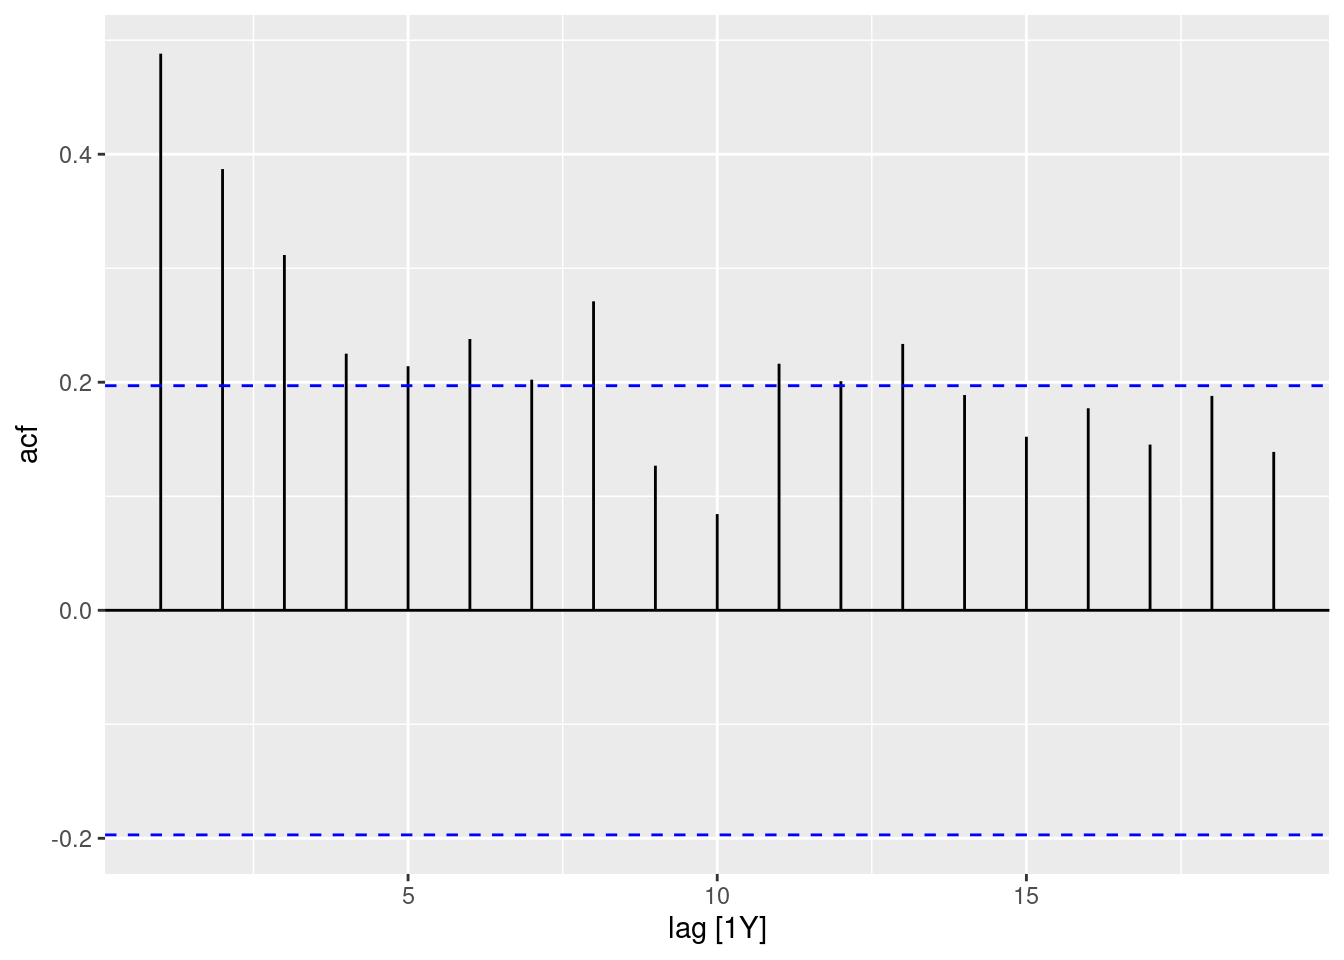
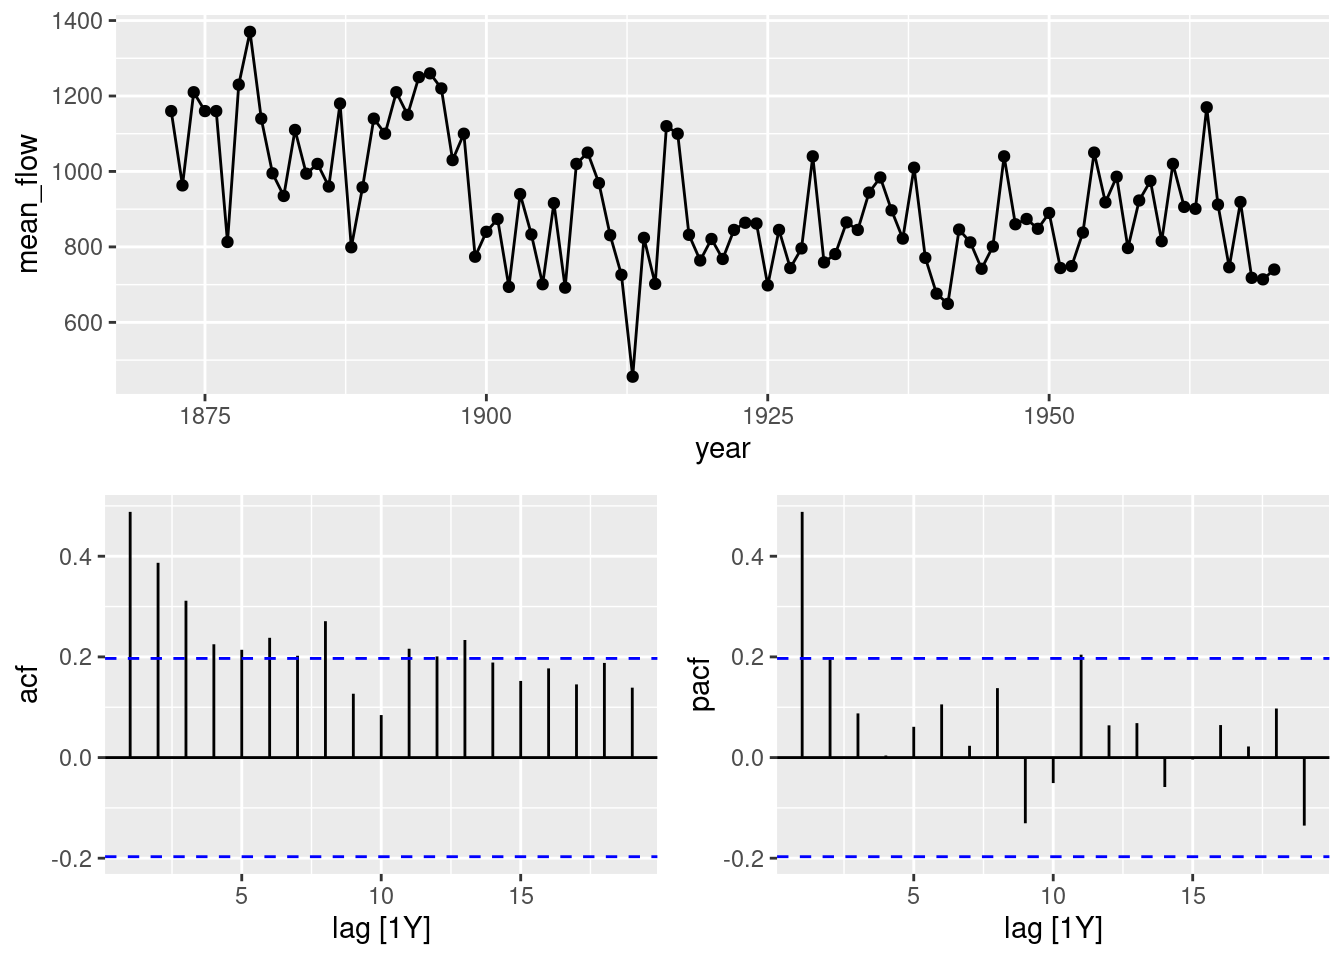
Built site for gh-pages

diff --git a/ch04_arma_estimation.html b/ch04_arma_estimation.html
@@ -571,31 +571,16 @@ The following objects are masked from 'package:base':
 </section>
 <section id="ex-4.2-model-identification" class="level3" data-number="4.2.2">
 <h3 data-number="4.2.2" class="anchored" data-anchor-id="ex-4.2-model-identification"><span class="header-section-number">4.2.2</span> Ex 4.2: Model identification</h3>
-<section id="acf-1" class="level4" data-number="4.2.2.1">
-<h4 data-number="4.2.2.1" class="anchored" data-anchor-id="acf-1"><span class="header-section-number">4.2.2.1</span> ACF</h4>
+<section id="acf-and-pacf" class="level4" data-number="4.2.2.1">
+<h4 data-number="4.2.2.1" class="anchored" data-anchor-id="acf-and-pacf"><span class="header-section-number">4.2.2.1</span> ACF and PACF</h4>
+<p>Use <code>gg_tsdisplay()</code> from <code>{feasts}</code> package, with <code>plot_type = "partial"</code> argument to plot both ACF and PACF along with the time series plot.</p>
 <div class="cell">
 <div class="sourceCode cell-code" id="cb86"><pre class="sourceCode r code-with-copy"><code class="sourceCode r"><span id="cb86-1"><a href="#cb86-1" aria-hidden="true" tabindex="-1"></a>nile_flow <span class="sc">|&gt;</span> </span>
-<span id="cb86-2"><a href="#cb86-2" aria-hidden="true" tabindex="-1"></a>  <span class="fu">ACF</span>(mean_flow) <span class="sc">|&gt;</span> </span>
-<span id="cb86-3"><a href="#cb86-3" aria-hidden="true" tabindex="-1"></a>  <span class="fu">autoplot</span>()</span></code><button title="Copy to Clipboard" class="code-copy-button"><i class="bi"></i></button></pre></div>
+<span id="cb86-2"><a href="#cb86-2" aria-hidden="true" tabindex="-1"></a>  <span class="fu">gg_tsdisplay</span>(mean_flow, <span class="at">plot_type =</span> <span class="st">"partial"</span>)</span></code><button title="Copy to Clipboard" class="code-copy-button"><i class="bi"></i></button></pre></div>
 <div class="cell-output-display">
 <div>
 <figure class="figure">
 <p><img src="ch04_arma_estimation_files/figure-html/unnamed-chunk-7-1.png" class="img-fluid figure-img" width="672"></p>
-</figure>
-</div>
-</div>
-</div>
-</section>
-<section id="pacf-1" class="level4" data-number="4.2.2.2">
-<h4 data-number="4.2.2.2" class="anchored" data-anchor-id="pacf-1"><span class="header-section-number">4.2.2.2</span> PACF</h4>
-<div class="cell">
-<div class="sourceCode cell-code" id="cb87"><pre class="sourceCode r code-with-copy"><code class="sourceCode r"><span id="cb87-1"><a href="#cb87-1" aria-hidden="true" tabindex="-1"></a>nile_flow <span class="sc">|&gt;</span> </span>
-<span id="cb87-2"><a href="#cb87-2" aria-hidden="true" tabindex="-1"></a>  <span class="fu">PACF</span>(mean_flow) <span class="sc">|&gt;</span> </span>
-<span id="cb87-3"><a href="#cb87-3" aria-hidden="true" tabindex="-1"></a>  <span class="fu">autoplot</span>()</span></code><button title="Copy to Clipboard" class="code-copy-button"><i class="bi"></i></button></pre></div>
-<div class="cell-output-display">
-<div>
-<figure class="figure">
-<p><img src="ch04_arma_estimation_files/figure-html/unnamed-chunk-8-1.png" class="img-fluid figure-img" width="672"></p>
 </figure>
 </div>
 </div>
@@ -606,11 +591,11 @@ The following objects are masked from 'package:base':
 <h3 data-number="4.2.3" class="anchored" data-anchor-id="ex-4.7-model-estimation"><span class="header-section-number">4.2.3</span> Ex 4.7: Model estimation</h3>
 <p>Use <code>AR()</code> from <code>{fable}</code> package. In formula, use <code>order(2)</code> set the order of auto-regressive term to be 2.</p>
 <div class="cell">
-<div class="sourceCode cell-code" id="cb88"><pre class="sourceCode r code-with-copy"><code class="sourceCode r"><span id="cb88-1"><a href="#cb88-1" aria-hidden="true" tabindex="-1"></a>ar_fit <span class="ot">&lt;-</span> </span>
-<span id="cb88-2"><a href="#cb88-2" aria-hidden="true" tabindex="-1"></a>  nile_flow <span class="sc">|&gt;</span> </span>
-<span id="cb88-3"><a href="#cb88-3" aria-hidden="true" tabindex="-1"></a>  <span class="fu">model</span>(<span class="at">AR =</span> <span class="fu">AR</span>(mean_flow <span class="sc">~</span> <span class="fu">order</span>(<span class="dv">2</span>)))</span>
-<span id="cb88-4"><a href="#cb88-4" aria-hidden="true" tabindex="-1"></a></span>
-<span id="cb88-5"><a href="#cb88-5" aria-hidden="true" tabindex="-1"></a>ar_fit</span></code><button title="Copy to Clipboard" class="code-copy-button"><i class="bi"></i></button></pre></div>
+<div class="sourceCode cell-code" id="cb87"><pre class="sourceCode r code-with-copy"><code class="sourceCode r"><span id="cb87-1"><a href="#cb87-1" aria-hidden="true" tabindex="-1"></a>ar_fit <span class="ot">&lt;-</span> </span>
+<span id="cb87-2"><a href="#cb87-2" aria-hidden="true" tabindex="-1"></a>  nile_flow <span class="sc">|&gt;</span> </span>
+<span id="cb87-3"><a href="#cb87-3" aria-hidden="true" tabindex="-1"></a>  <span class="fu">model</span>(<span class="at">AR =</span> <span class="fu">AR</span>(mean_flow <span class="sc">~</span> <span class="fu">order</span>(<span class="dv">2</span>)))</span>
+<span id="cb87-4"><a href="#cb87-4" aria-hidden="true" tabindex="-1"></a></span>
+<span id="cb87-5"><a href="#cb87-5" aria-hidden="true" tabindex="-1"></a>ar_fit</span></code><button title="Copy to Clipboard" class="code-copy-button"><i class="bi"></i></button></pre></div>
 <div class="cell-output cell-output-stdout">
 <pre><code># A mable: 1 x 1
                AR
@@ -633,7 +618,7 @@ Note
 </div>
 <p>See the estimated model.</p>
 <div class="cell">
-<div class="sourceCode cell-code" id="cb90"><pre class="sourceCode r code-with-copy"><code class="sourceCode r"><span id="cb90-1"><a href="#cb90-1" aria-hidden="true" tabindex="-1"></a><span class="fu">report</span>(ar_fit)</span></code><button title="Copy to Clipboard" class="code-copy-button"><i class="bi"></i></button></pre></div>
+<div class="sourceCode cell-code" id="cb89"><pre class="sourceCode r code-with-copy"><code class="sourceCode r"><span id="cb89-1"><a href="#cb89-1" aria-hidden="true" tabindex="-1"></a><span class="fu">report</span>(ar_fit)</span></code><button title="Copy to Clipboard" class="code-copy-button"><i class="bi"></i></button></pre></div>
 <div class="cell-output cell-output-stdout">
 <pre><code>Series: mean_flow 
 Model: AR(2) w/ mean 
@@ -648,7 +633,7 @@ AIC = -27.53    AICc = -27.28   BIC = -19.75</code></pre>
 </div>
 <p>See more detailed statistics of the regression coefficients.</p>
 <div class="cell">
-<div class="sourceCode cell-code" id="cb92"><pre class="sourceCode r code-with-copy"><code class="sourceCode r"><span id="cb92-1"><a href="#cb92-1" aria-hidden="true" tabindex="-1"></a><span class="fu">tidy</span>(ar_fit)</span></code><button title="Copy to Clipboard" class="code-copy-button"><i class="bi"></i></button></pre></div>
+<div class="sourceCode cell-code" id="cb91"><pre class="sourceCode r code-with-copy"><code class="sourceCode r"><span id="cb91-1"><a href="#cb91-1" aria-hidden="true" tabindex="-1"></a><span class="fu">tidy</span>(ar_fit)</span></code><button title="Copy to Clipboard" class="code-copy-button"><i class="bi"></i></button></pre></div>
 <div class="cell-output cell-output-stdout">
 <pre><code># A tibble: 3 × 6
   .model term     estimate std.error statistic  p.value
@@ -660,7 +645,7 @@ AIC = -27.53    AICc = -27.28   BIC = -19.75</code></pre>
 </div>
 <p>See model-level statistics.</p>
 <div class="cell">
-<div class="sourceCode cell-code" id="cb94"><pre class="sourceCode r code-with-copy"><code class="sourceCode r"><span id="cb94-1"><a href="#cb94-1" aria-hidden="true" tabindex="-1"></a><span class="fu">glance</span>(ar_fit)</span></code><button title="Copy to Clipboard" class="code-copy-button"><i class="bi"></i></button></pre></div>
+<div class="sourceCode cell-code" id="cb93"><pre class="sourceCode r code-with-copy"><code class="sourceCode r"><span id="cb93-1"><a href="#cb93-1" aria-hidden="true" tabindex="-1"></a><span class="fu">glance</span>(ar_fit)</span></code><button title="Copy to Clipboard" class="code-copy-button"><i class="bi"></i></button></pre></div>
 <div class="cell-output cell-output-stdout">
 <pre><code># A tibble: 1 × 6
   .model sigma2   AIC  AICc   BIC   dof
@@ -671,15 +656,40 @@ AIC = -27.53    AICc = -27.28   BIC = -19.75</code></pre>
 </section>
 <section id="ex-4.8-residual-diagnostics" class="level3" data-number="4.2.4">
 <h3 data-number="4.2.4" class="anchored" data-anchor-id="ex-4.8-residual-diagnostics"><span class="header-section-number">4.2.4</span> Ex 4.8: Residual diagnostics</h3>
+<p>Visualize in-sample residuals. Use <code>gg_tsresiduals()</code> from <code>{feasts}</code> package.</p>
 <div class="cell">
-<div class="sourceCode cell-code" id="cb96"><pre class="sourceCode r code-with-copy"><code class="sourceCode r"><span id="cb96-1"><a href="#cb96-1" aria-hidden="true" tabindex="-1"></a>ar_fit <span class="sc">|&gt;</span> </span>
-<span id="cb96-2"><a href="#cb96-2" aria-hidden="true" tabindex="-1"></a>  <span class="fu">augment</span>() <span class="sc">|&gt;</span> </span>
-<span id="cb96-3"><a href="#cb96-3" aria-hidden="true" tabindex="-1"></a>  <span class="fu">features</span>(.innov, ljung_box, <span class="at">lag =</span> <span class="dv">12</span>)</span></code><button title="Copy to Clipboard" class="code-copy-button"><i class="bi"></i></button></pre></div>
+<div class="sourceCode cell-code" id="cb95"><pre class="sourceCode r code-with-copy"><code class="sourceCode r"><span id="cb95-1"><a href="#cb95-1" aria-hidden="true" tabindex="-1"></a>ar_fit <span class="sc">|&gt;</span> </span>
+<span id="cb95-2"><a href="#cb95-2" aria-hidden="true" tabindex="-1"></a>  <span class="fu">gg_tsresiduals</span>()</span></code><button title="Copy to Clipboard" class="code-copy-button"><i class="bi"></i></button></pre></div>
+<div class="cell-output cell-output-stderr">
+<pre><code>Warning: Removed 2 rows containing missing values or values outside the scale range
+(`geom_line()`).</code></pre>
+</div>
+<div class="cell-output cell-output-stderr">
+<pre><code>Warning: Removed 2 rows containing missing values or values outside the scale range
+(`geom_point()`).</code></pre>
+</div>
+<div class="cell-output cell-output-stderr">
+<pre><code>Warning: Removed 2 rows containing non-finite outside the scale range
+(`stat_bin()`).</code></pre>
+</div>
+<div class="cell-output-display">
+<div>
+<figure class="figure">
+<p><img src="ch04_arma_estimation_files/figure-html/unnamed-chunk-12-1.png" class="img-fluid figure-img" width="672"></p>
+</figure>
+</div>
+</div>
+</div>
+<p>Ljung-Box test with 3 degrees of freedom: 1 for constant term and 2 for auto-regressive coefficients.</p>
+<div class="cell">
+<div class="sourceCode cell-code" id="cb99"><pre class="sourceCode r code-with-copy"><code class="sourceCode r"><span id="cb99-1"><a href="#cb99-1" aria-hidden="true" tabindex="-1"></a>ar_fit <span class="sc">|&gt;</span> </span>
+<span id="cb99-2"><a href="#cb99-2" aria-hidden="true" tabindex="-1"></a>  <span class="fu">augment</span>() <span class="sc">|&gt;</span> </span>
+<span id="cb99-3"><a href="#cb99-3" aria-hidden="true" tabindex="-1"></a>  <span class="fu">features</span>(.innov, ljung_box, <span class="at">lag =</span> <span class="dv">12</span>, <span class="at">dof =</span> <span class="dv">3</span>)</span></code><button title="Copy to Clipboard" class="code-copy-button"><i class="bi"></i></button></pre></div>
 <div class="cell-output cell-output-stdout">
 <pre><code># A tibble: 1 × 3
   .model lb_stat lb_pvalue
   &lt;chr&gt;    &lt;dbl&gt;     &lt;dbl&gt;
-1 AR        11.5     0.488</code></pre>
+1 AR        11.5     0.244</code></pre>
 </div>
 </div>
 

diff --git a/ch06_arima.html b/ch06_arima.html
@@ -446,7 +446,7 @@ AIC=8919   AICc=8919.32   BIC=8946.18</code></pre>
 </div>
 </div>
 </div>
-<p>And conduct Ljung-Box test. Set <code>dof=6</code>, five from a non-seasonal ARIMA(2, 0, 2) and another from a seasonal MA(1).</p>
+<p>And conduct Ljung-Box test. Set <code>dof=6</code>, five from a non-seasonal ARIMA(1, 0, 4) and another from a seasonal MA(1).</p>
 <div class="cell">
 <div class="sourceCode cell-code" id="cb27"><pre class="sourceCode r code-with-copy"><code class="sourceCode r"><span id="cb27-1"><a href="#cb27-1" aria-hidden="true" tabindex="-1"></a>best_arima_fit <span class="sc">|&gt;</span> </span>
 <span id="cb27-2"><a href="#cb27-2" aria-hidden="true" tabindex="-1"></a>  <span class="fu">augment</span>() <span class="sc">|&gt;</span> </span>
